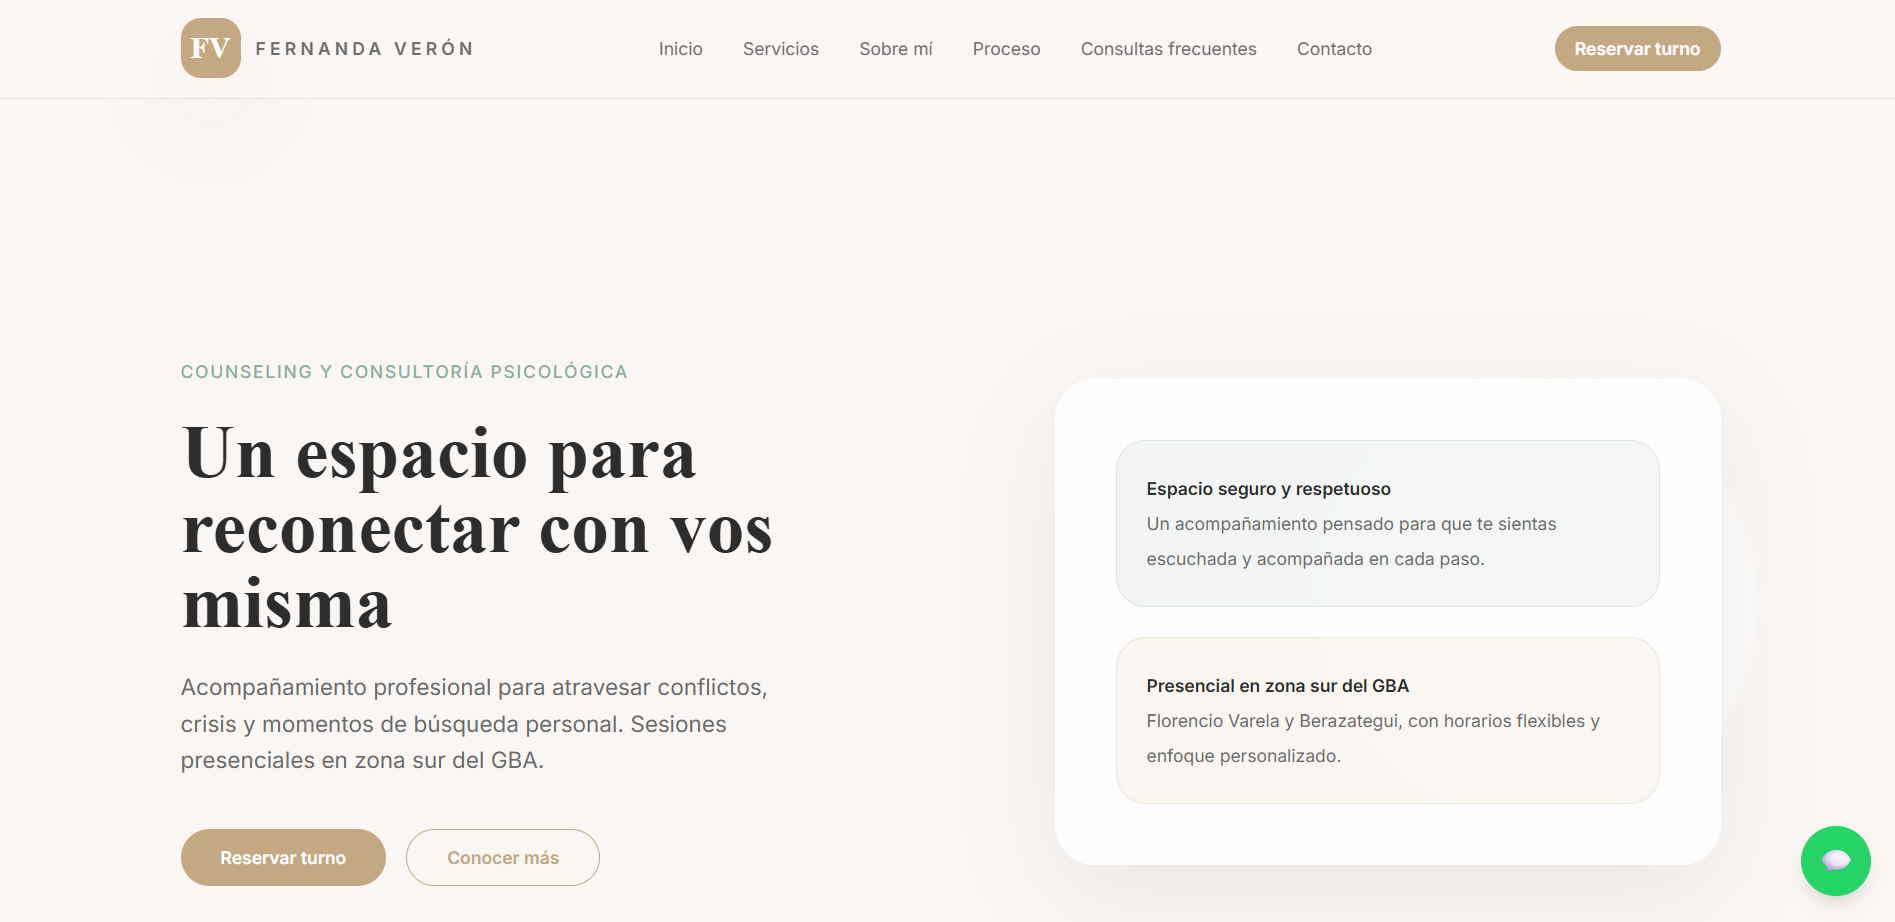
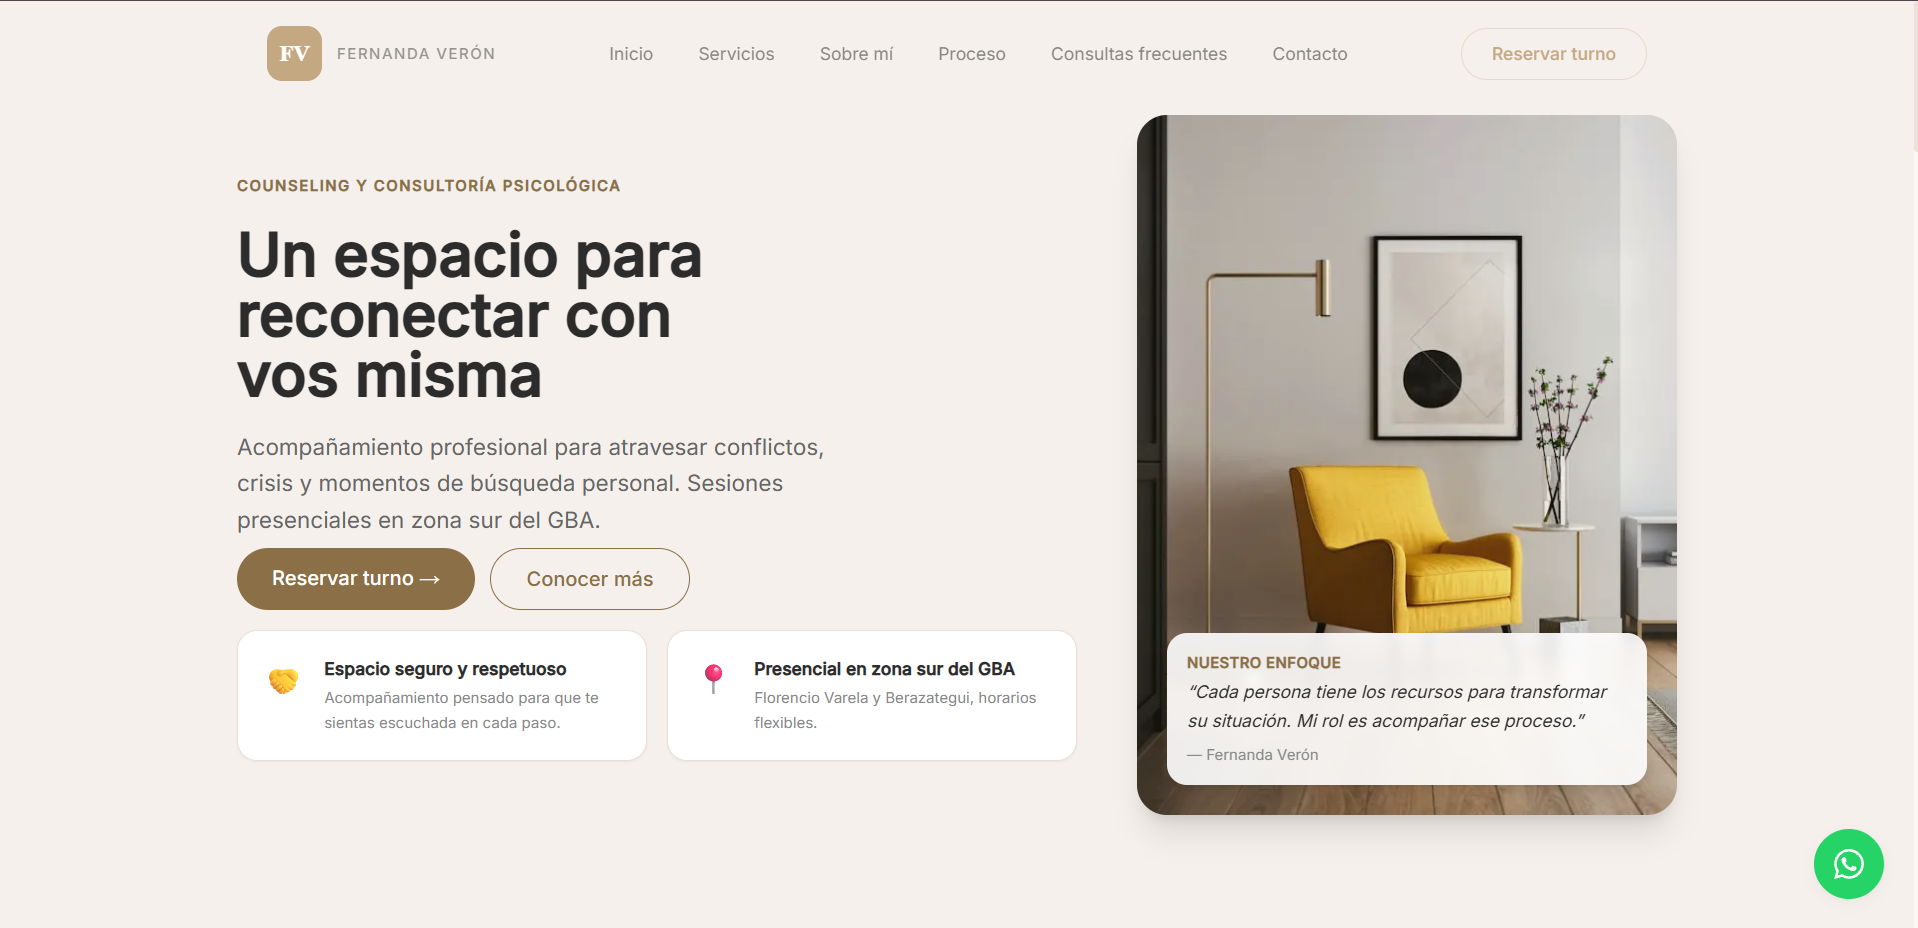
Nuevos screenshots

diff --git a/components/ContactForm.tsx b/components/ContactForm.tsx
@@ -69,7 +69,7 @@ export default function ContactForm() {
           </p>
         </div>
 
-        <div className="bg-[#111111] backdrop-blur-sm border border-[#222222] rounded-2xl p-8 space-y-5">
+        <div className="bg-[#111111] backdrop-blur-sm border border-[#222222] rounded-2xl p-8 space-y-5" suppressHydrationWarning>
           <div className="grid grid-cols-1 md:grid-cols-2 gap-5">
             <div>
               <label className="block text-sm text-[#888888] mb-2">Nombre *</label>
@@ -79,6 +79,7 @@ export default function ContactForm() {
                 onChange={handleChange}
                 placeholder="Tu nombre"
                 className={inputClass}
+                suppressHydrationWarning
               />
             </div>
             <div>
@@ -90,6 +91,7 @@ export default function ContactForm() {
                 onChange={handleChange}
                 placeholder="tu@email.com"
                 className={inputClass}
+                suppressHydrationWarning
               />
             </div>
           </div>
@@ -102,6 +104,7 @@ export default function ContactForm() {
               onChange={handleChange}
               placeholder="Ej: Panadería La Esquina"
               className={inputClass}
+              suppressHydrationWarning
             />
           </div>
 
@@ -112,6 +115,7 @@ export default function ContactForm() {
               value={formData.service}
               onChange={handleChange}
               className={inputClass}
+              suppressHydrationWarning
             >
               <option value="" disabled>Seleccioná una opción</option>
               {services.map((s) => (
@@ -149,6 +153,7 @@ export default function ContactForm() {
             onClick={handleSubmit}
             disabled={status === 'loading'}
             className="w-full bg-gradient-to-r from-[#6C47FF] to-[#00D4FF] hover:opacity-90 disabled:opacity-50 disabled:cursor-not-allowed text-white font-semibold py-4 rounded-xl transition-all duration-200 flex items-center justify-center gap-2"
+            suppressHydrationWarning
           >
             {status === 'loading' ? (
               <>Enviando...</>

diff --git a/components/FAQ.tsx b/components/FAQ.tsx
@@ -60,6 +60,7 @@ export default function FAQ() {
             <button
               onClick={() => setOpenIndex(openIndex === i ? null : i)}
               className="w-full flex items-center justify-between p-5 text-left"
+              suppressHydrationWarning
             >
               <span className="font-medium font-space text-[#F5F5F5] pr-4">
                 {p.q}
